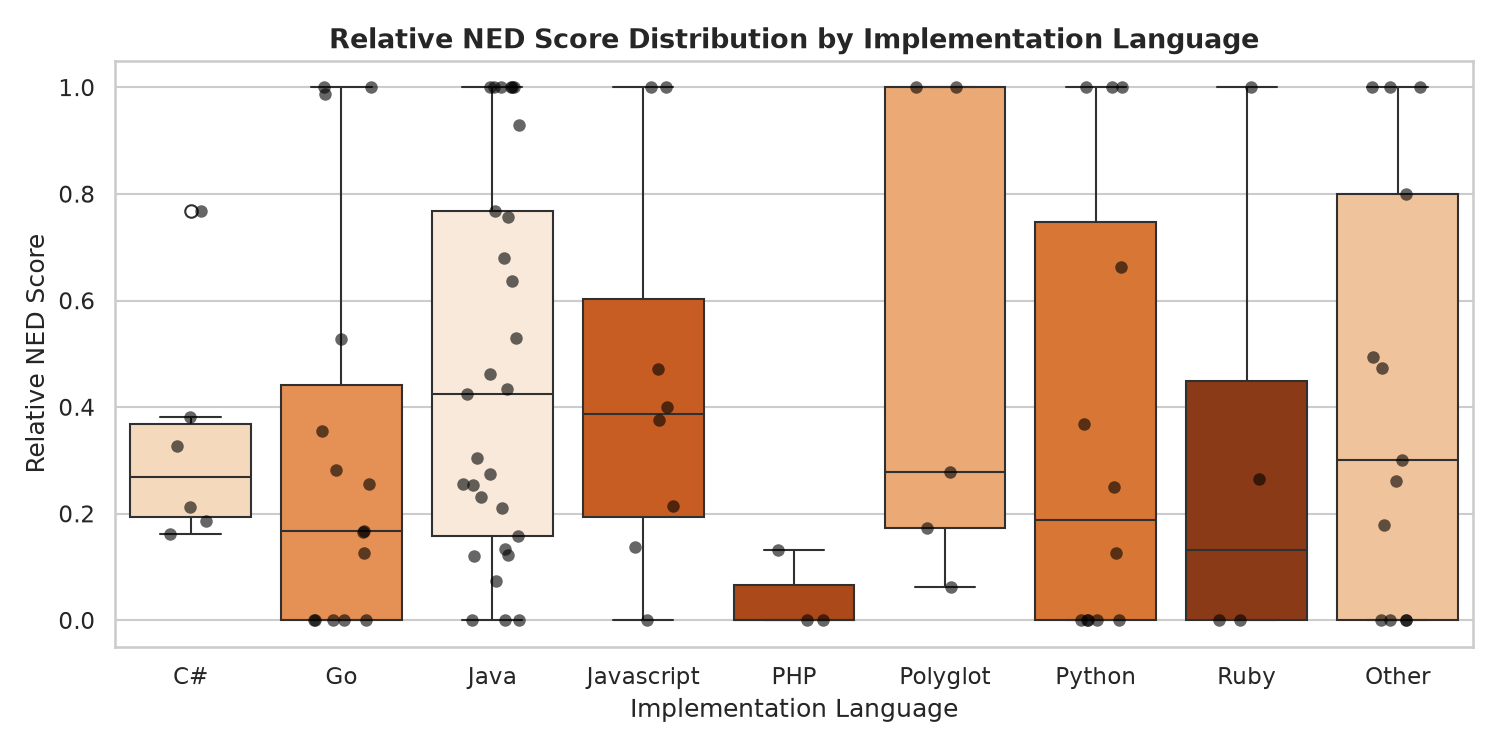
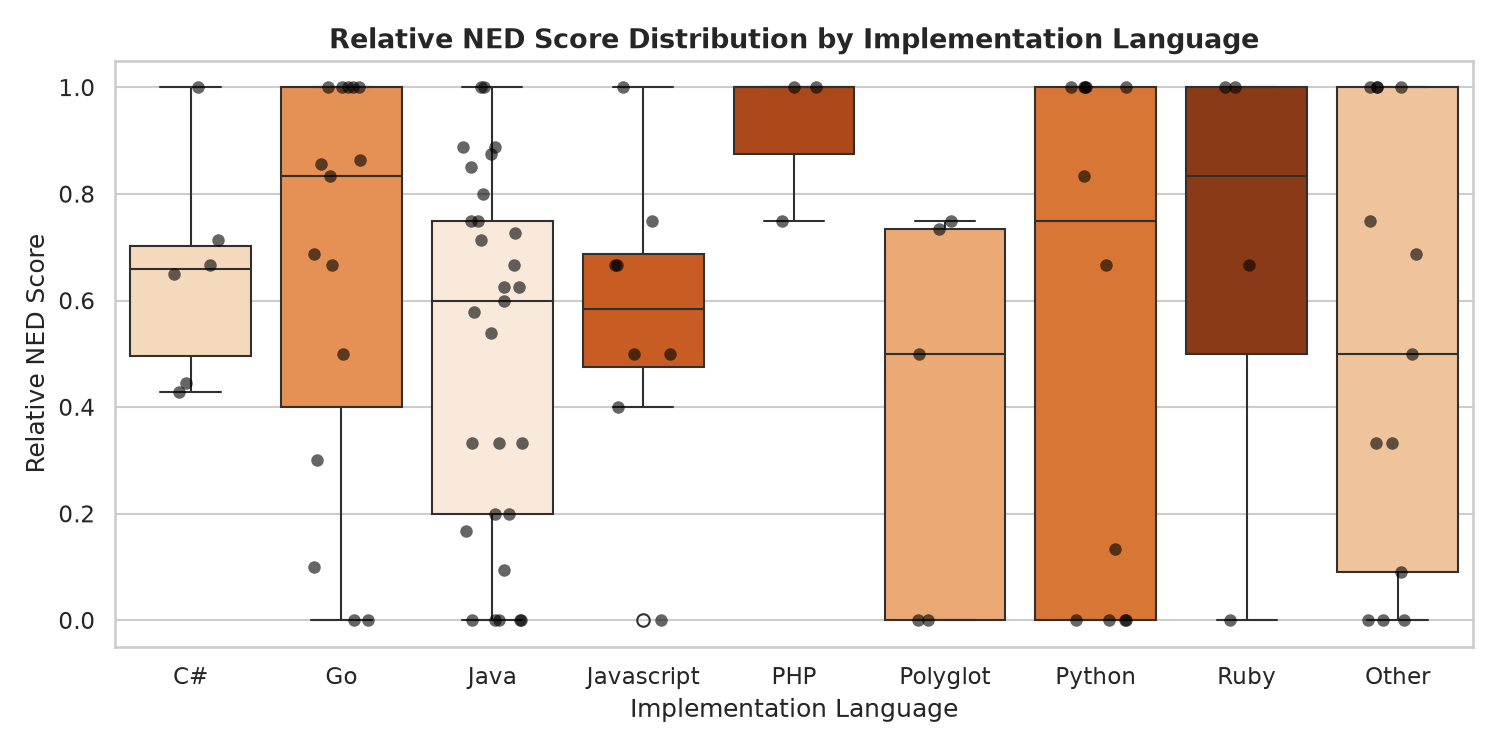
feat(metrics): update NED metric to 1 - (#non-extreme partitions / total partitions)

diff --git a/analysis/ned.py b/analysis/ned.py
@@ -23,12 +23,14 @@
 #
 # ### Metrics Evaluated:
 # 1. **Fixed-Bounds NED (`ned_absolute`)**:
-#    $$\text{NED}_{\text{fixed}} = 1 - \frac{\sum_{s \in \text{Extreme}} |s|}{\text{Total Classes}}$$
-#    where a service is extreme if $|s| < \text{lo}$ (default: 5) or $|s| > \text{hi}$ (default: 20).
+#    $$\text{NED}_{\text{fixed}} = 1 - \frac{\text{# non-extreme partitions}}{\text{Total Partitions}}$$
+#    where a service partition is non-extreme if $\text{lo} \le |s| \le \text{hi}$ (default: $[5, 20]$).
+#    Lower is better: $0.0 = \text{all partitions non-extreme (ideal)}$, $1.0 = \text{all partitions extreme}$.
 #
 # 2. **Relative-Bounds NED (`ned_relative`)**:
-#    $$\text{NED}_{\text{relative}} = \frac{\sum_{s \in \text{Balanced}} |s|}{\text{Total Classes}}$$
-#    where a service is balanced if its size falls within $[(1-\epsilon)\bar{s}, (1+\epsilon)\bar{s}]$ around the system's average service size $\bar{s}$.
+#    $$\text{NED}_{\text{relative}} = 1 - \frac{\text{# relative-non-extreme partitions}}{\text{Total Partitions}}$$
+#    where a service is relative-non-extreme if its size falls within $[(1-\epsilon)\bar{s}, (1+\epsilon)\bar{s}]$ around the system's average service size $\bar{s}$.
+#    Lower is better: $0.0 = \text{all partitions balanced around mean}$, $1.0 = \text{all partitions extreme}$.
 
 # %%
 import json
@@ -233,6 +235,7 @@ print(segregation_comparison.round(3).to_string(index=False))
 # ## 3. Distribution Comparison: Fixed vs. Relative NED
 #
 # Comparing the distribution of Fixed-Bounds NED (`ned_absolute`) and Relative-Bounds NED (`ned_relative`).
+# - Lower scores indicate better partition size balance (0.0 = all partitions non-extreme, 1.0 = all partitions extreme).
 # - Fixed NED penalizes systems that depart from the global [5, 20] range.
 # - Relative NED evaluates balance with respect to the system's own mean service size.
 
@@ -415,16 +418,16 @@ plt.show()
 # excluding pure infrastructure/deployment recipes.
 
 # %%
-print("=== TOP 10 BALANCED APPLICATION MICROSERVICES (Fixed NED) ===")
-top_balanced = df_apps.sort_values(by=["ned_absolute", "ned_relative"], ascending=[False, False])[
+print("=== TOP 10 BALANCED APPLICATION MICROSERVICES (Lowest Fixed NED, 0.0 = Ideal) ===")
+top_balanced = df_apps.sort_values(by=["ned_absolute", "ned_relative"], ascending=[True, True])[
     ["system_id", "system_name", "language", "service_count", "total_classes", "avg_service_size", "ned_absolute", "ned_relative"]
 ].head(10)
 print(top_balanced.to_string(index=False))
 
 # %%
-print("\n=== TOP 10 SKEWED / EXTREME APPLICATION MICROSERVICES (Lowest Fixed NED) ===")
+print("\n=== TOP 10 SKEWED / EXTREME APPLICATION MICROSERVICES (Highest Fixed NED, 1.0 = All Extreme) ===")
 most_skewed = df_apps[df_apps["total_classes"] > 0].sort_values(
-    by=["ned_absolute", "ned_relative"], ascending=[True, True]
+    by=["ned_absolute", "ned_relative"], ascending=[False, False]
 )[
     ["system_id", "system_name", "language", "service_count", "total_classes", "avg_service_size", "tiny_services_count", "god_services_count", "ned_absolute", "ned_relative"]
 ].head(10)
@@ -519,8 +522,8 @@ with PdfPages(pdf_report_path) as pdf:
         f"• Application Systems - Fixed NED: Mean = {df_apps['ned_absolute'].mean():.4f}, Median = {df_apps['ned_absolute'].median():.4f}.\n"
         f"• Application Systems - Relative NED: Mean = {df_apps['ned_relative'].mean():.4f}, Median = {df_apps['ned_relative'].median():.4f}.\n"
         "• Segregated pure infrastructure/deployment recipes (which have 0-1 services/classes) to avoid metric skew.\n"
-        "• Fixed NED penalizes systems diverging from the global [5, 20] range.\n"
-        "• Relative NED adapts to system scale, offering a fairer assessment of internal balance."
+        "• Fixed NED penalizes systems with partitions diverging from the global [5, 20] range (lower is better, 0.0 = ideal).\n"
+        "• Relative NED adapts to system scale, assessing partition size uniformity relative to mean service size."
     )
     ax_cover.text(0.1, 0.16, summary_text, fontsize=9.5, verticalalignment="top", fontfamily="monospace")
     pdf.savefig(fig_cover, dpi=150)

diff --git a/src/fyp_cdq/metrics/ned.py b/src/fyp_cdq/metrics/ned.py
@@ -16,44 +16,47 @@ def calculate_ned(
     eps: float = DEFAULT_NED_EPS,
 ) -> Tuple[float, float, Dict[str, float]]:
     """
-    Non-Extreme Distribution (NED) calculation extracted from reference SOTA implementations.
+    Non-Extreme Distribution (NED) calculation.
 
     Fixed bounds NED:
-        1 - (#classes in extreme-sized partitions / total classes)
-        where extreme means size < lo or size > hi.
+        1 - (#non-extreme-sized partitions / total partitions)
+        where a partition is non-extreme if lo <= size <= hi.
 
     Relative bounds NED (CHGNN variant):
-        proportion of classes in partitions within [floor(avg*(1-eps)), ceil(avg*(1+eps))]
-        where avg = total_classes / #partitions.
+        1 - (#relative-non-extreme partitions / total partitions)
+        where a partition is non-extreme if floor(avg*(1-eps)) <= size <= ceil(avg*(1+eps)),
+        and avg = total_classes / total_partitions.
 
-    Higher is better. Range: [0.0, 1.0].
+    Lower is better. Range: [0.0, 1.0].
+    (0.0 = perfect balance, 1.0 = completely extreme partitions).
     """
     clusters: Dict[str, set] = {}
     for cls, cid in partition.items():
         clusters.setdefault(cid, set()).add(cls)
 
     total_classes = len(partition)
-    if total_classes == 0 or len(clusters) == 0:
+    total_partitions = len(clusters)
+    if total_classes == 0 or total_partitions == 0:
         return 0.0, 0.0, {}
 
     sizes = {cid: len(members) for cid, members in clusters.items()}
 
-    # 1. Fixed bounds NED
-    extreme_count = sum(size for size in sizes.values() if not (lo <= size <= hi))
-    overall_ned = 1.0 - (extreme_count / total_classes)
+    # 1. Fixed bounds NED: 1 - (#non-extreme partitions / total partitions)
+    non_extreme_count = sum(1 for size in sizes.values() if lo <= size <= hi)
+    overall_ned = 1.0 - (non_extreme_count / total_partitions)
 
-    # 2. Relative bounds NED (CHGNN variant)
-    avg = total_classes / len(clusters)
+    # 2. Relative bounds NED (CHGNN variant): 1 - (#relative-non-extreme partitions / total partitions)
+    avg = total_classes / total_partitions
     rel_lo = math.floor(avg * (1.0 - eps))
     rel_hi = math.ceil(avg * (1.0 + eps))
-    non_extreme_rel_count = sum(size for size in sizes.values() if rel_lo <= size <= rel_hi)
-    overall_ned_relative = non_extreme_rel_count / total_classes
+    non_extreme_rel_count = sum(1 for size in sizes.values() if rel_lo <= size <= rel_hi)
+    overall_ned_relative = 1.0 - (non_extreme_rel_count / total_partitions)
 
-    # Microservice level binary indicator (1.0 if balanced, 0.0 if extreme)
+    # Microservice level binary indicator (0.0 if balanced/non-extreme, 1.0 if extreme)
     microservice_scores = {}
     for cid, size in sizes.items():
-        is_non_extreme = 1.0 if (lo <= size <= hi) else 0.0
-        microservice_scores[cid] = is_non_extreme
+        is_extreme = 0.0 if (lo <= size <= hi) else 1.0
+        microservice_scores[cid] = is_extreme
 
     return overall_ned, overall_ned_relative, microservice_scores
 

diff --git a/tests/test_ned.py b/tests/test_ned.py
@@ -16,9 +16,10 @@ def test_calculate_ned_balanced():
         partition[f"c3_{i}"] = "svc3"
 
     score, score_rel, ms_scores = calculate_ned(partition, lo=5, hi=20, eps=0.5)
-    assert score == 1.0
-    assert score_rel == 1.0
-    assert ms_scores == {"svc1": 1.0, "svc2": 1.0, "svc3": 1.0}
+    # 3/3 non-extreme -> NED = 1 - 3/3 = 0.0 (lower is better)
+    assert score == 0.0
+    assert score_rel == 0.0
+    assert ms_scores == {"svc1": 0.0, "svc2": 0.0, "svc3": 0.0}
 
 
 def test_calculate_ned_all_extreme():
@@ -31,9 +32,10 @@ def test_calculate_ned_all_extreme():
         partition[f"g_{i}"] = "svc3"
 
     score, score_rel, ms_scores = calculate_ned(partition, lo=5, hi=20, eps=0.5)
-    # Total = 32, all extreme, so fixed NED = 0.0
-    assert score == 0.0
-    assert ms_scores == {"svc1": 0.0, "svc2": 0.0, "svc3": 0.0}
+    # Total = 3 partitions, 0 non-extreme -> NED = 1 - 0/3 = 1.0
+    assert score == 1.0
+    assert score_rel == 1.0
+    assert ms_scores == {"svc1": 1.0, "svc2": 1.0, "svc3": 1.0}
 
 
 def test_calculate_ned_empty():
@@ -53,10 +55,10 @@ def test_ned_metric_evaluate(tmp_path):
         system_name="TestSystem"
     )
     result = metric.evaluate(partition, ms_dir=tmp_path, output_dir=tmp_path)
-    # Total classes = 11, extreme count = 1 -> fixed NED = 1 - 1/11 = 10/11 ≈ 0.9091
-    assert pytest.approx(result.score, 0.0001) == 10 / 11
-    assert result.microservice_scores["svc1"] == 1.0
-    assert result.microservice_scores["svc2"] == 0.0
+    # Total partitions = 2, non-extreme count = 1 -> fixed NED = 1 - 1/2 = 0.5
+    assert pytest.approx(result.score, 0.0001) == 0.5
+    assert result.microservice_scores["svc1"] == 0.0
+    assert result.microservice_scores["svc2"] == 1.0
 
     # Verify JSON files saved
     assert (tmp_path / "output.json").exists()

diff --git a/tests/test_pipeline.py b/tests/test_pipeline.py
@@ -37,7 +37,7 @@ def test_pipeline_evaluate_with_args(tmp_path: Path):
     assert partition.service_count == 5
     assert result.bounds["lo"] == 3
     assert result.bounds["eps"] == 0.25
-    assert result.score == 1.0
+    assert result.score == 0.0
 
 
 def test_pipeline_unsupported_system():

diff --git a/src/fyp_cdq/models.py b/src/fyp_cdq/models.py
@@ -73,6 +73,7 @@ class MetricResult:
             "score": self.score,
         }
         if self.score_relative is not None:
+            res["score_absolute"] = self.score
             res["score_relative"] = self.score_relative
         if self.bounds:
             res["bounds"] = self.bounds
